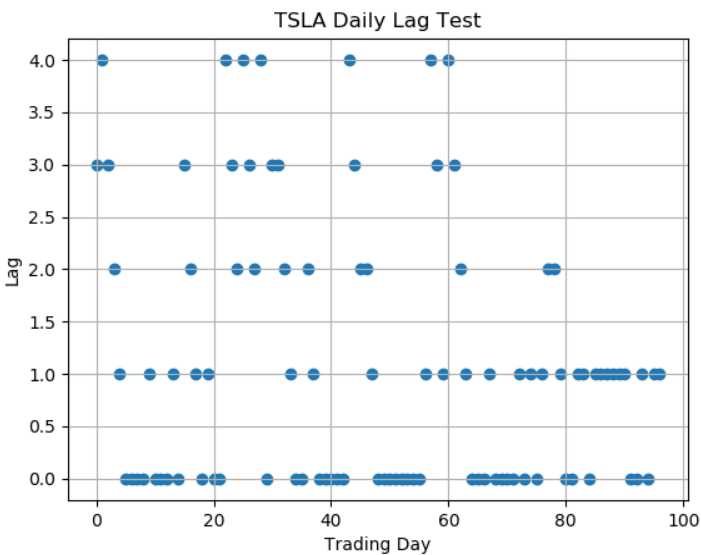
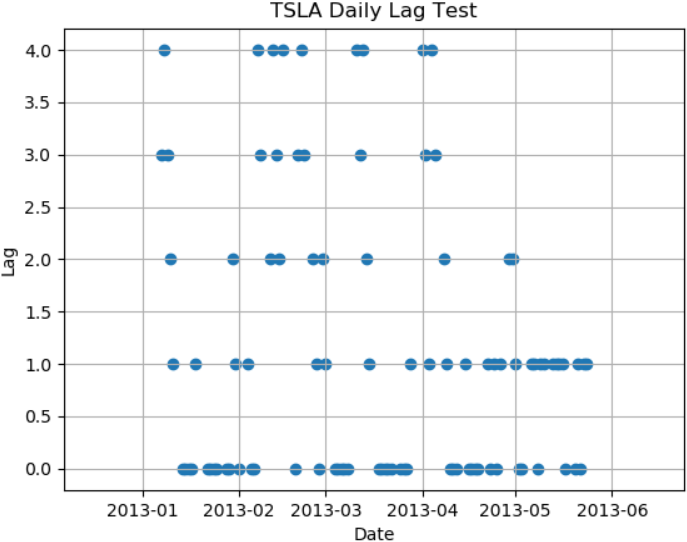
exps edit

Changed region(s): [[0.0, 0.0, 1.0, 1.0]]

diff --git a/machine_learning/final/evaluation/metrics.py b/machine_learning/final/evaluation/metrics.py
@@ -61,9 +61,10 @@ def compute_lag_metric(actual, prediction, lookup, symbol):
     ax.grid(True)
 
     _, ax1 = plt.subplots()
-    ax1.scatter(range(len(lag_list)), lag_list)
+    index = actual[:len(actual)-lookup+1].index
+    ax1.scatter(index, lag_list)
     plt.title(symbol+" Daily Lag Test")
-    ax1.set_xlabel('Trading Day')
+    ax1.set_xlabel('Date')
     ax1.set_ylabel('Lag')
     ax1.grid(True)
 

diff --git a/machine_learning/final/experiments/exp4.py b/machine_learning/final/experiments/exp4.py
@@ -4,9 +4,9 @@ from keras.callbacks import EarlyStopping
 import matplotlib.pyplot as plt
 
 #future gap
-stock = 'AAPL'
+stock = 'MSFT'
 dates_dic = {
-    'AAPL'  : ['2017-01-01', '2018-01-01']
+    'MSFT'  : ['2017-01-01', '2018-01-01']
 }
 
 window = 2
